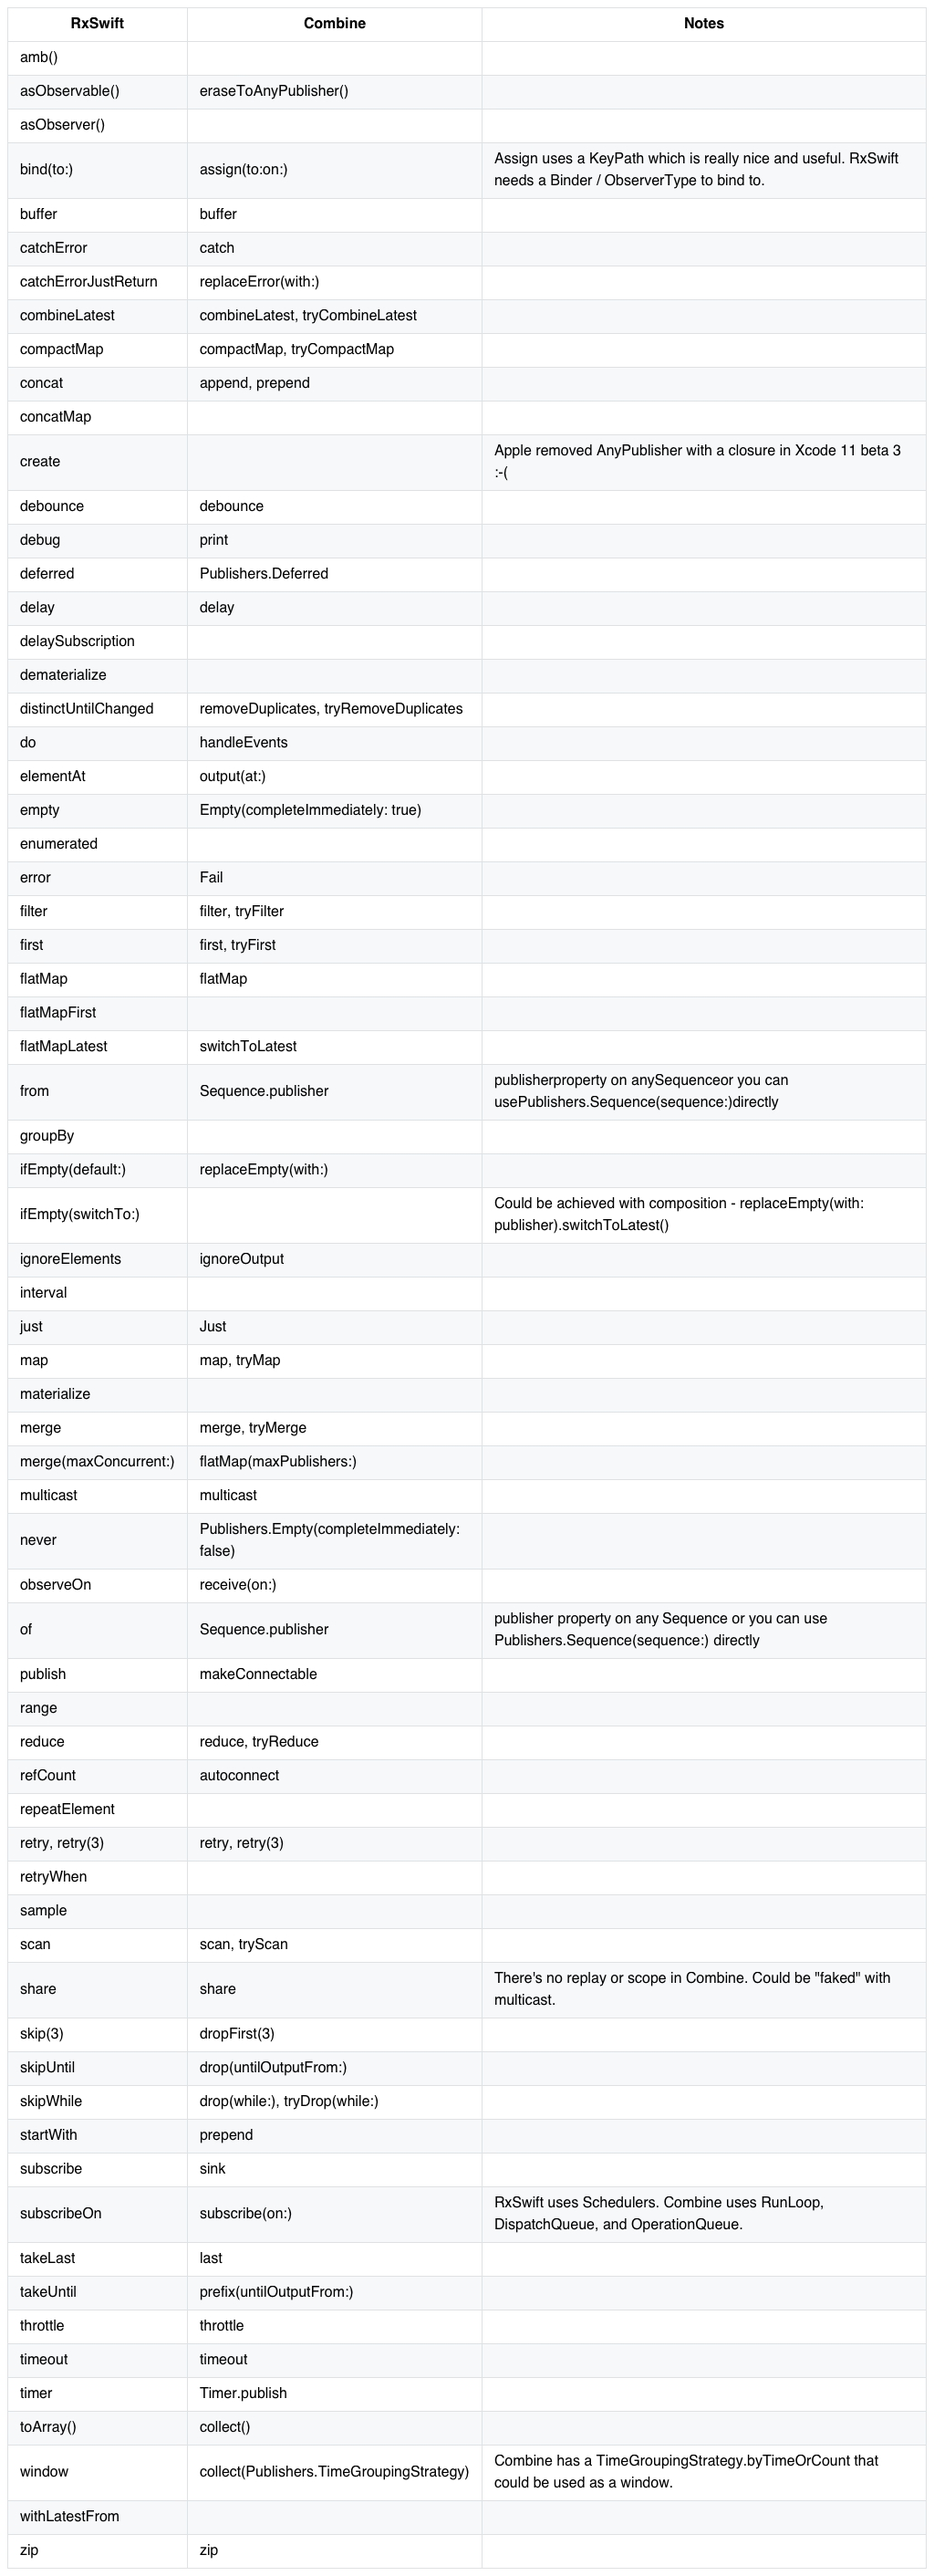
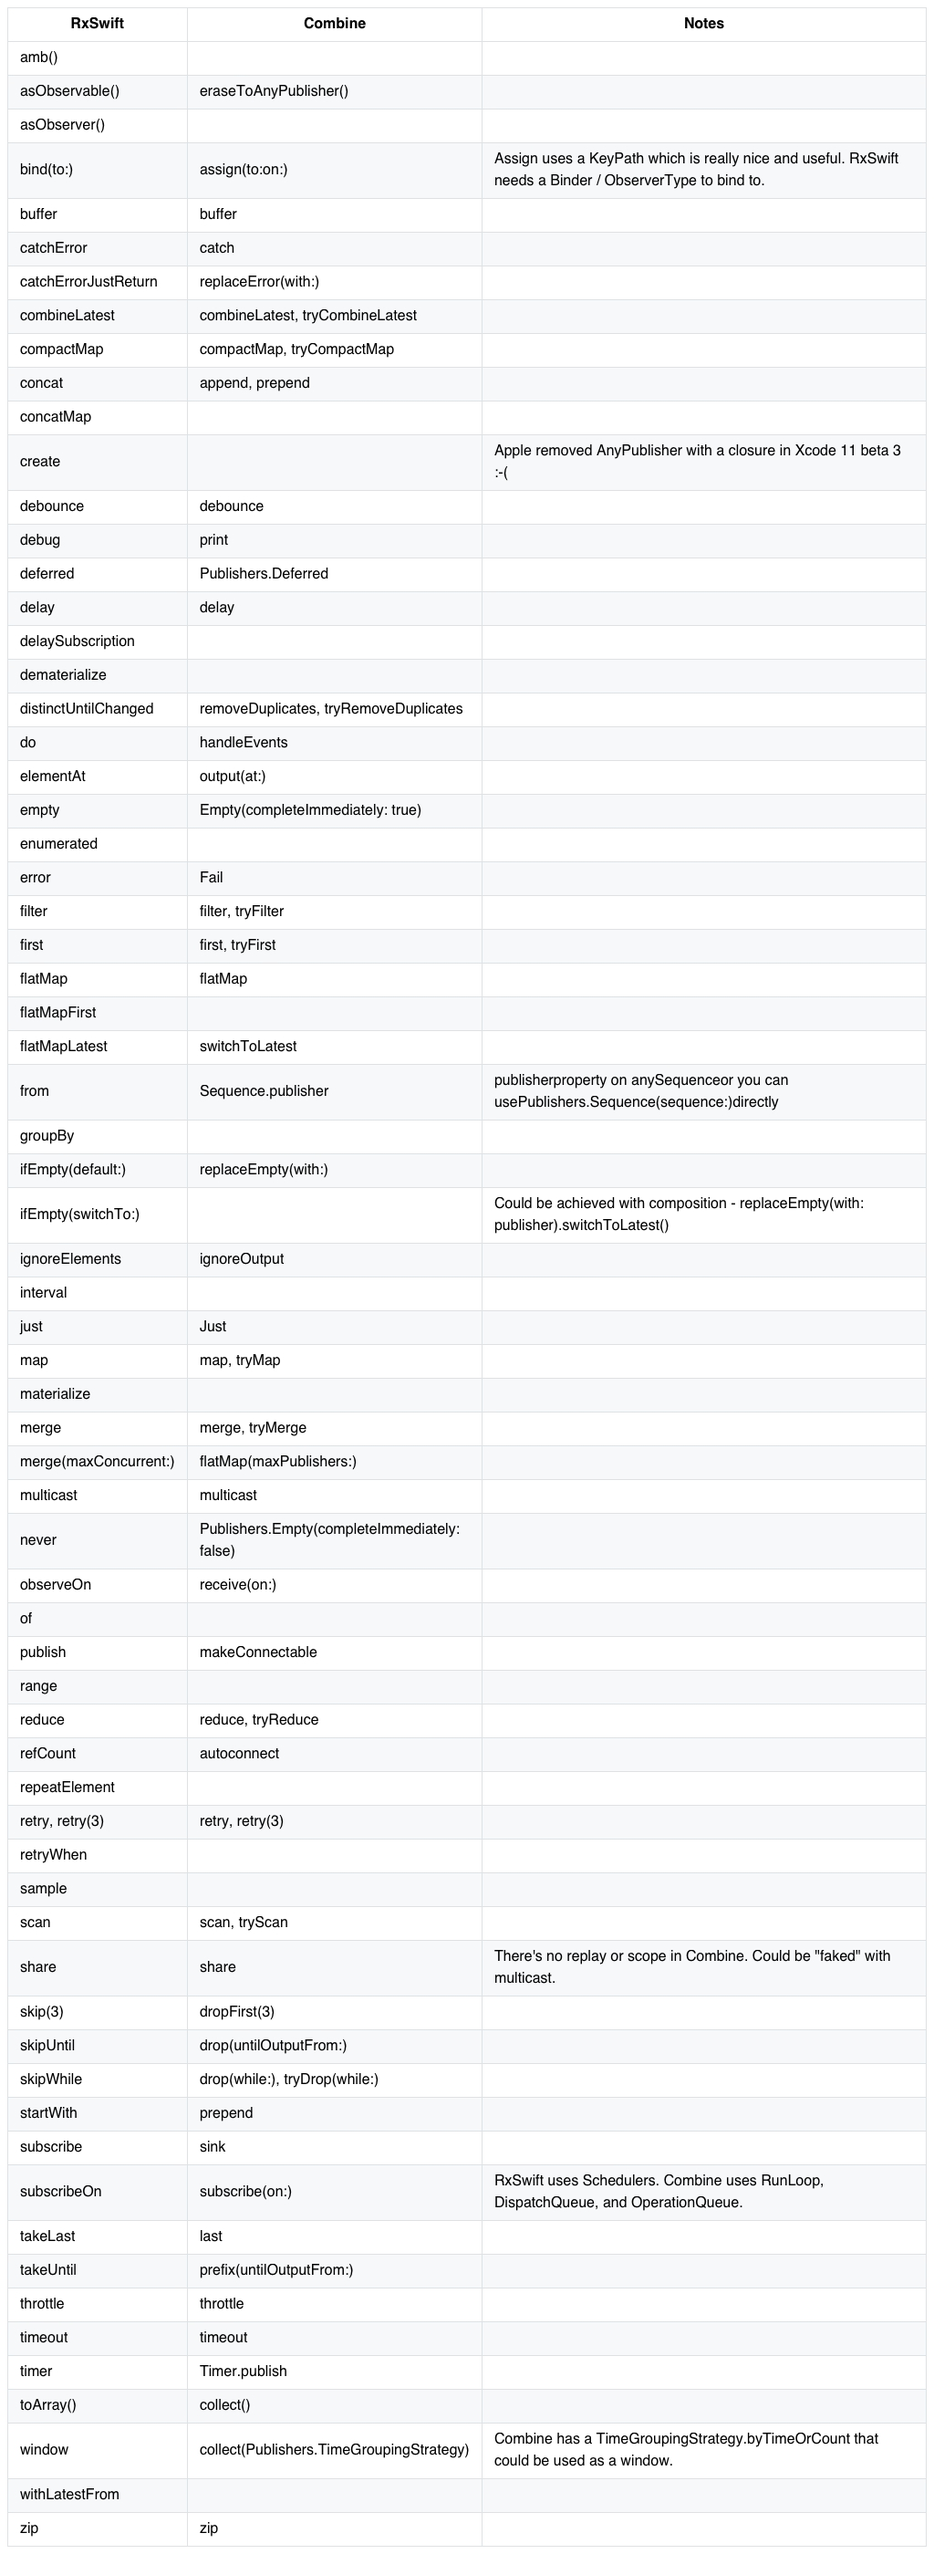
Update README.md

diff --git a/README.md b/README.md
@@ -90,7 +90,7 @@ It's based on the following blog post: [https://medium.com/gett-engineering/rxsw
 | multicast             | multicast                                    |                                                                                                          |
 | never                 | Publishers.Empty(completeImmediately: false) |                                                                                                          |
 | observeOn             | receive(on:)                                 |                                                                                                          |
-| of                    | Sequence.publisher                           | `publisher` property on any `Sequence` or you can use `Publishers.Sequence(sequence:)` directly          |
+| of                    |                                              |                                                                                                          |
 | publish               | makeConnectable                              |                                                                                                          |
 | range                 |                                              |                                                                                                          |
 | reduce                | reduce, tryReduce                            |                                                                                                          |
